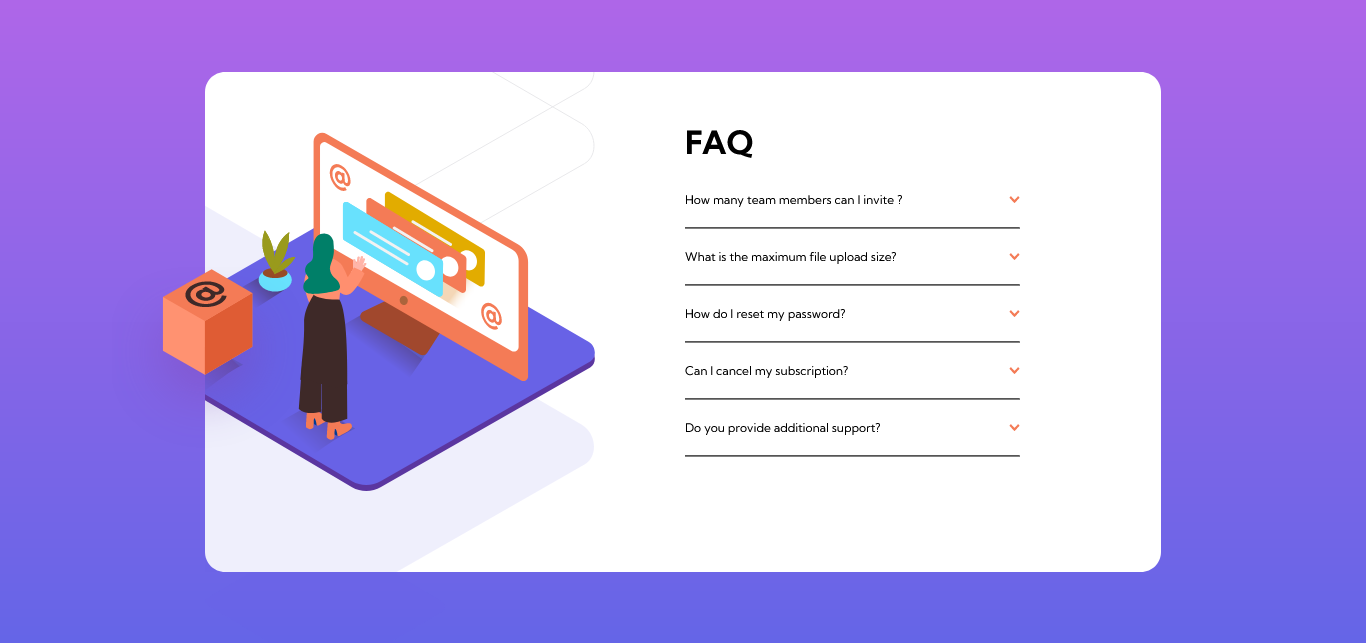
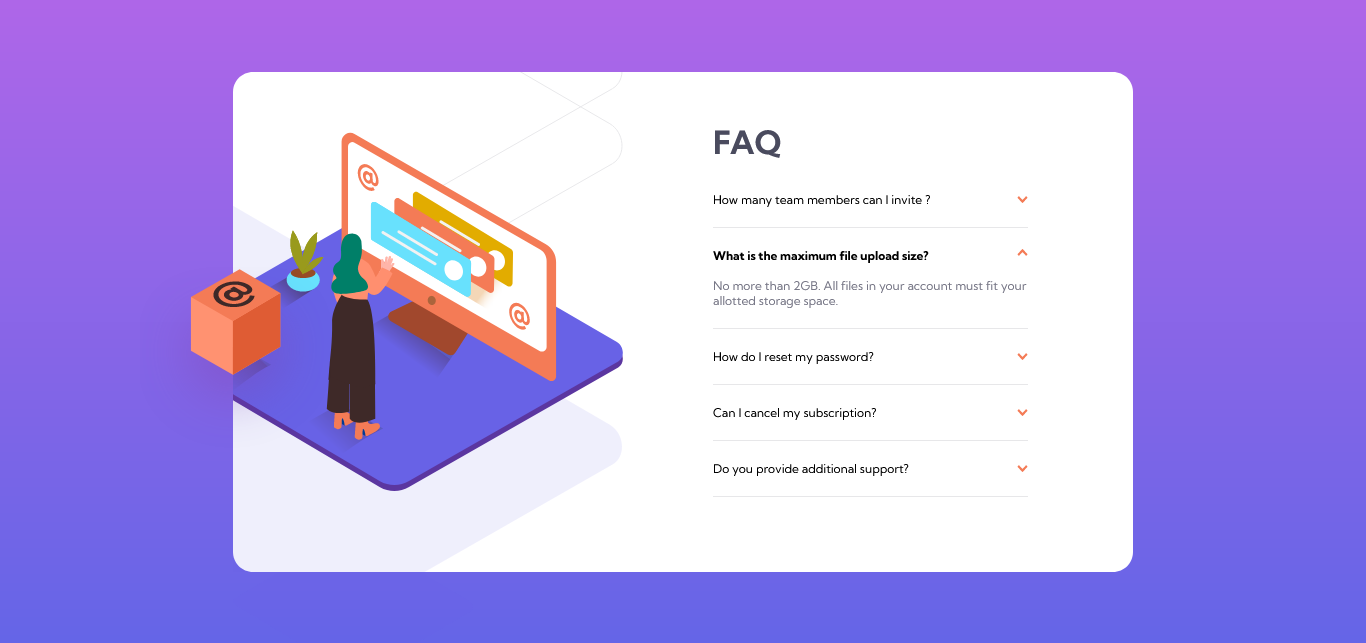
third commit

diff --git a/style.css b/style.css
@@ -33,12 +33,13 @@ body {
   display: none;
 }
 main {
-  height: 470px;
+  height: 500px;
   width: 70vw;
   display: flex;
   flex-direction: row;
   background: white;
   border-radius: 20px;
+  max-width: 900px;
 }
 .images {
   position: relative;
@@ -97,6 +98,15 @@ main {
 }
 .accordion{
   display: none;
+}
+.container > h1{
+  color:var(--Verydarkgrayishblue);
+}
+.accordion_choice>span{
+  color:var(--VeryDarkgrayishblue)
+}
+.accordion_content{
+  color: var(--Darkgrayishblue);
 }
 .accordion:checked ~ .accordion_content{
   display: block;

diff --git a/index.html b/index.html
@@ -70,6 +70,7 @@
               name="accordion"
               class="accordion"
               id="section2"
+              checked = "checked"
             />
             <label for="section2" class="accordion_choice">
               <span>What is the maximum file upload size?</span>
